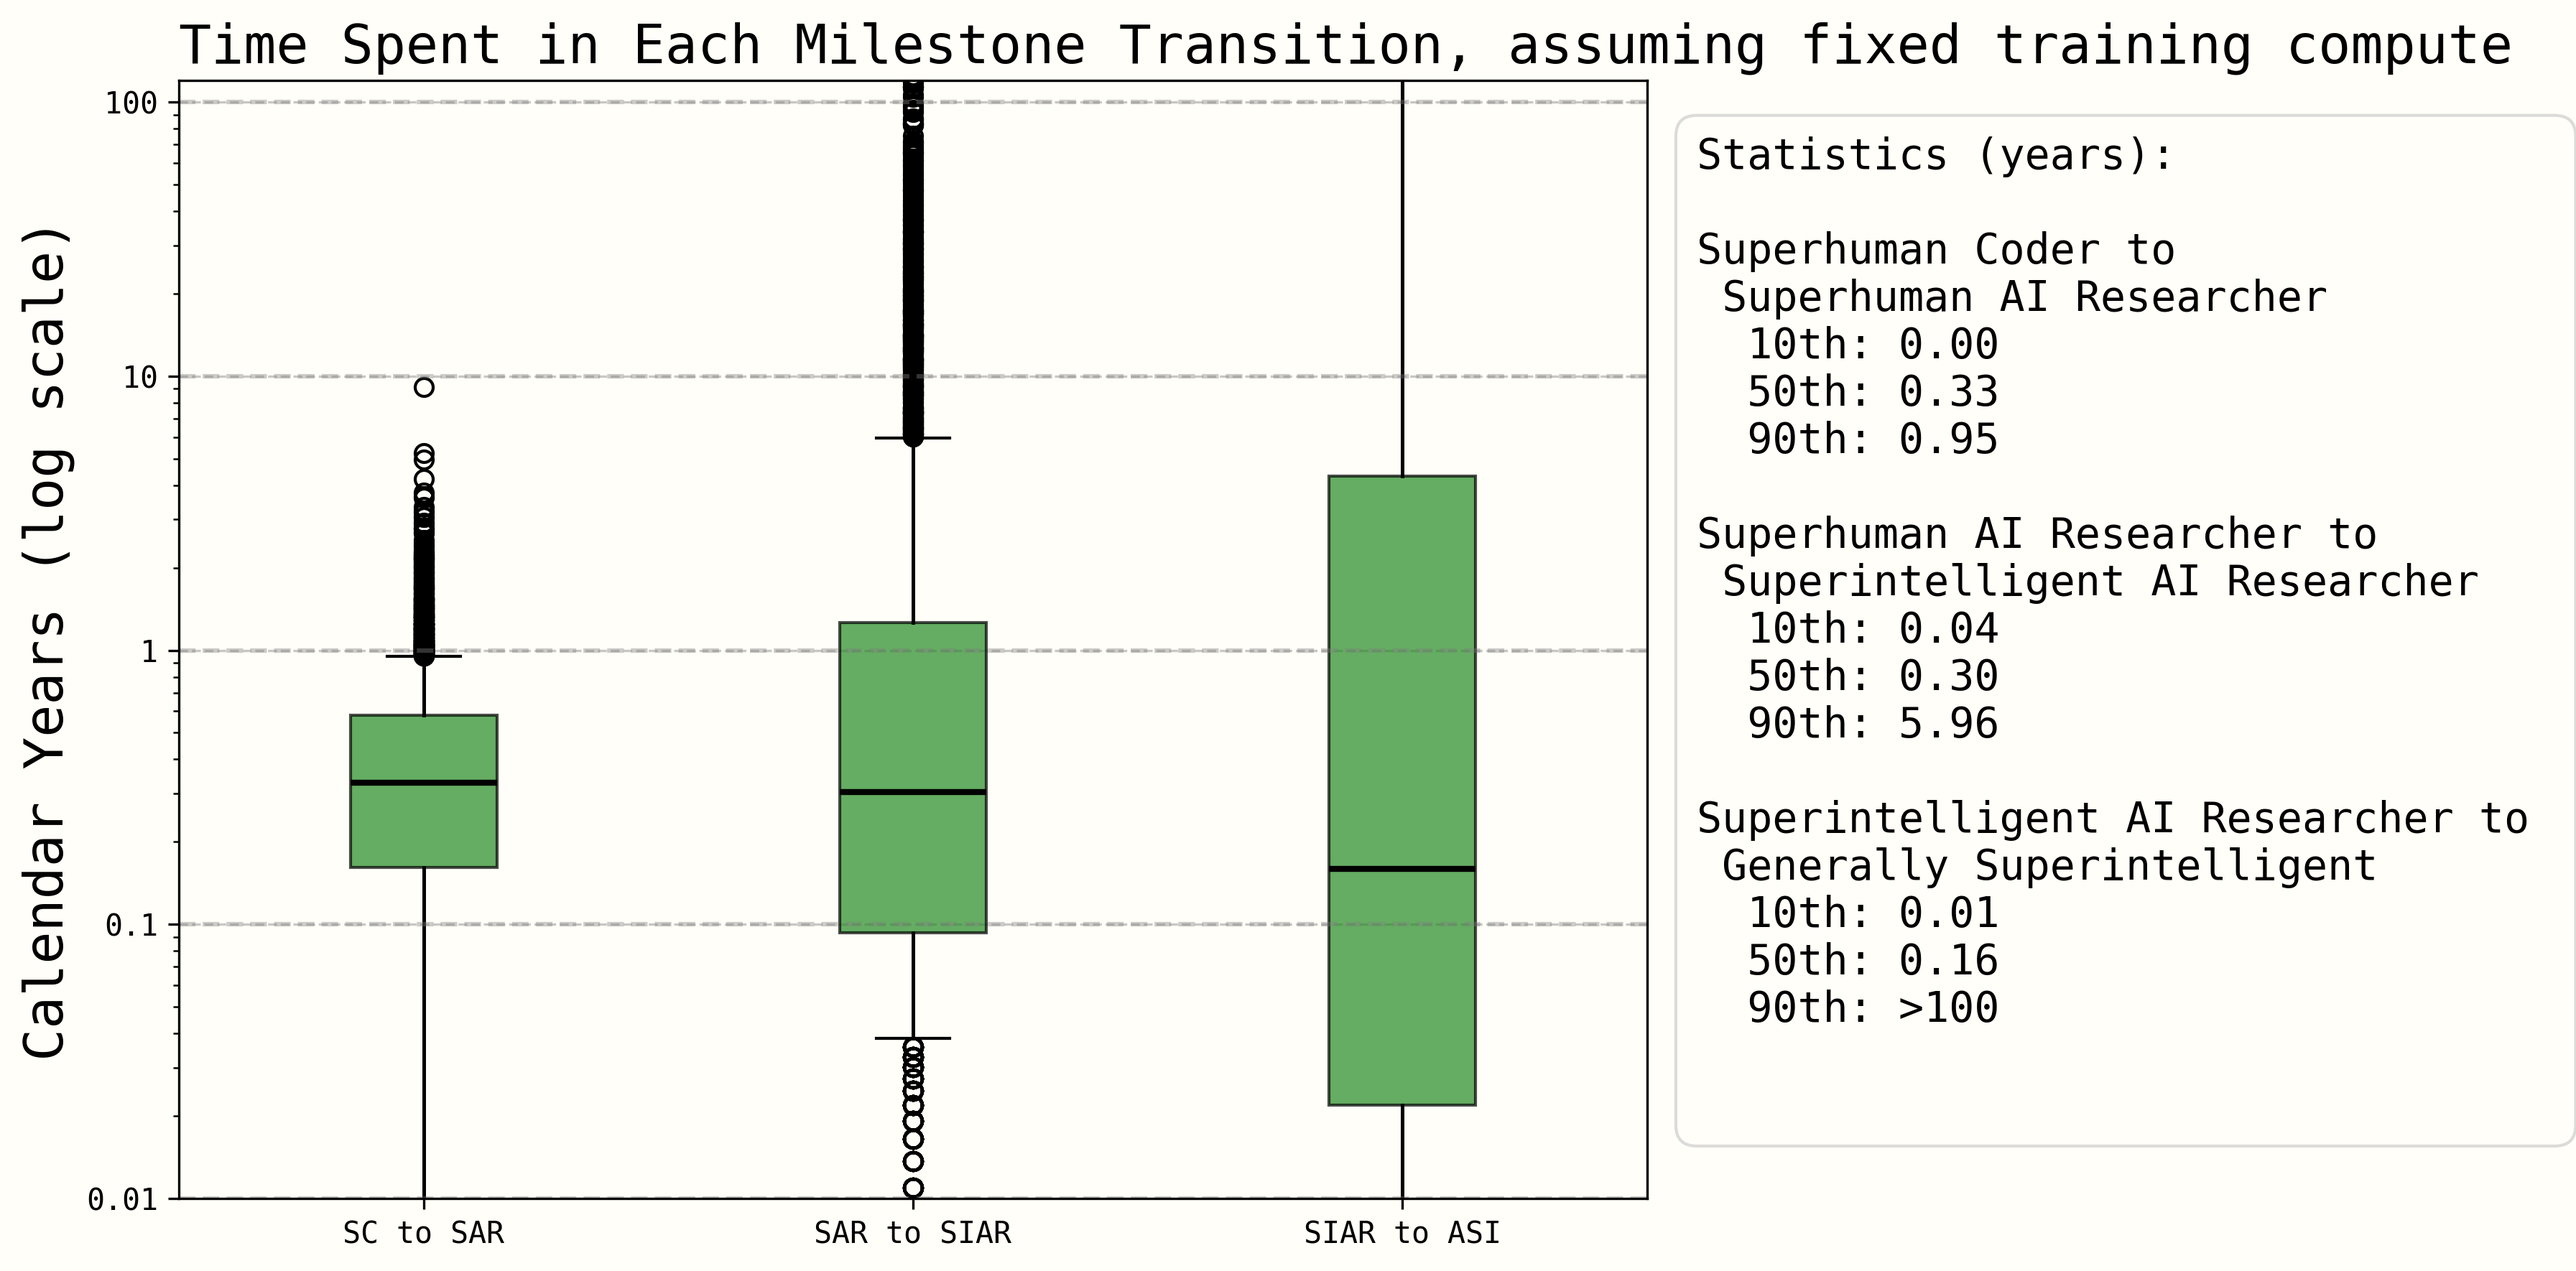
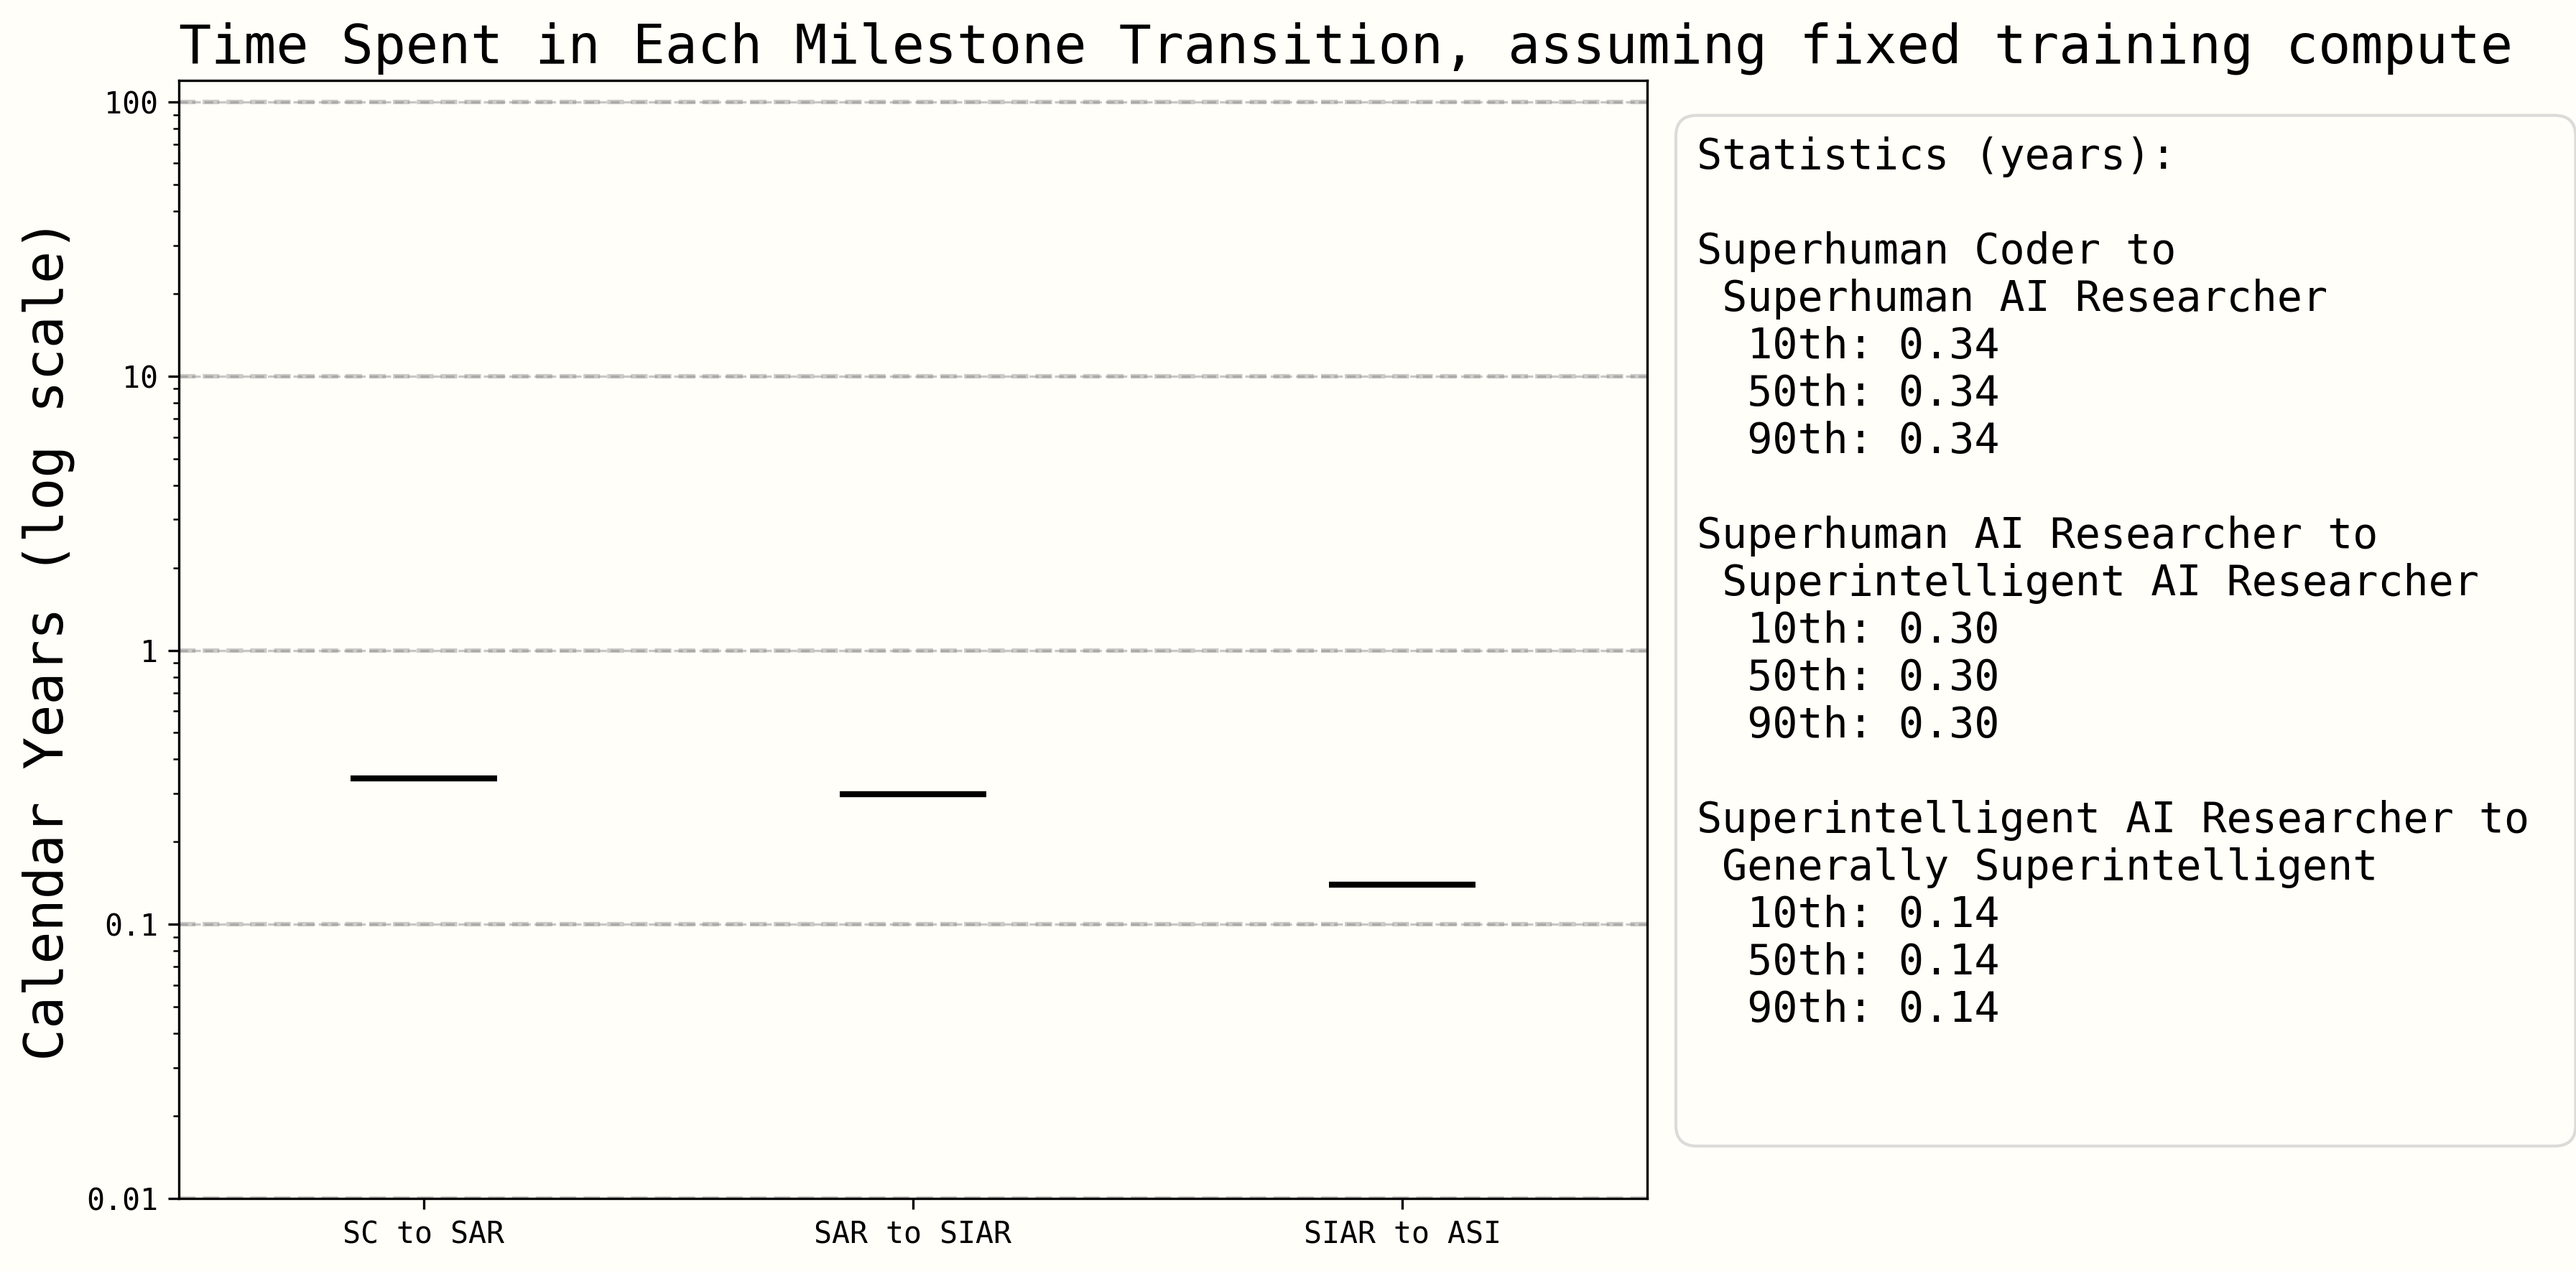
specify takeoff uncertainty in params

diff --git a/takeoff/forecasting_takeoff.py b/takeoff/forecasting_takeoff.py
@@ -30,20 +30,28 @@ def get_lognormal_from_80_ci(lower_bound, upper_bound):
     # Return the lognormal distribution
     return lognorm(s=sigma, scale=np.exp(mu))
 
-def get_milestone_samples(config: dict, n_sims: int, correlation: float = 0.7) -> dict:
+def get_milestone_samples(config: dict, n_sims: int) -> dict:
     """Generate samples for milestone timings and speeds with correlation between gap sizes."""
     samples = {}
-    
+
     # Parse starting time
     start_date = datetime.strptime(config["starting_time"], "%B %d %Y")
     samples["start_time"] = start_date
-    
+
+    # Get correlation parameters from config
+    time_gaps_correlation = config["correlations"]["time_gaps"]
+    amr_sar_sc_sar_correlation = config["correlations"]["amr_sar_sc_sar"]
+
+    # Get derived distribution bounds from config
+    amr_to_sar_bounds = config["derived_distributions"]["amr_to_sar"]
+    sar_to_siar_equiv_jumps_bounds = config["derived_distributions"]["sar_to_siar_equiv_jumps"]
+
     # Get list of time gaps to model
     milestone_pairs = list(config["times"].keys())
     n_vars = len(milestone_pairs)
-    
+
     # Create correlation matrix (all pairs have same correlation)
-    corr_matrix = np.full((n_vars, n_vars), correlation)
+    corr_matrix = np.full((n_vars, n_vars), time_gaps_correlation)
     np.fill_diagonal(corr_matrix, 1.0)
     
     # Generate correlated standard normal samples
@@ -54,7 +62,6 @@ def get_milestone_samples(config: dict, n_sims: int, correlation: float = 0.7) -
     uniform_samples = norm.cdf(normal_samples)
     
     # Generate AMR to SAR samples with correlation to SC to SAR
-    amr_sar_sc_sar_correlation = 0.8
     corr_matrix_2 = np.array([[1.0, amr_sar_sc_sar_correlation],
                              [amr_sar_sc_sar_correlation, 1.0]])
     mean_2 = np.zeros(2)
@@ -62,11 +69,11 @@ def get_milestone_samples(config: dict, n_sims: int, correlation: float = 0.7) -
     uniform_samples_corr = norm.cdf(correlated_normal_samples)
     
     # Generate AMR to SAR samples using the correlated uniforms
-    amr_to_sar_dist = get_lognormal_from_80_ci(1, 25)
+    amr_to_sar_dist = get_lognormal_from_80_ci(amr_to_sar_bounds[0], amr_to_sar_bounds[1])
     amr_to_sar_samples = amr_to_sar_dist.ppf(uniform_samples_corr[:, 0])
-    
+
     # Generate SAR to SIAR equivalent jumps samples
-    sar_to_siar_equiv_jumps_dist = get_lognormal_from_80_ci(0.3, 7.5)
+    sar_to_siar_equiv_jumps_dist = get_lognormal_from_80_ci(sar_to_siar_equiv_jumps_bounds[0], sar_to_siar_equiv_jumps_bounds[1])
     sar_to_siar_equiv_jumps_samples = sar_to_siar_equiv_jumps_dist.ppf(np.random.random(n_sims))
     
     # Generate time gap samples
@@ -298,22 +305,30 @@ def create_milestone_timeline_plot(all_milestone_dates: list[list[datetime]], co
         if not visible_data:
             print(f"Warning: No data in visible range for {milestone}")
             continue
-            
-        # Calculate KDE on visible data
-        kde = gaussian_kde(visible_data)
-        
+
         # Create x range for plotting
         x_range = np.linspace(start_year, MAX_GRAPH_YEAR, 200000)
-        density = kde(x_range)
-        
-        # Normalize density to sum to 1 over visible range
-        density = density / np.sum(density) * (len(visible_data) / len(milestone_data))
-        
-        # Plot with different colors for each milestone
         colors = ["#900000", "#004000", "#000090"]
-        ax.plot(x_range, density, '-', color=colors[i], label=milestone,
-                linewidth=2, alpha=0.8, zorder=2)
-        ax.fill_between(x_range, density, color=colors[i], alpha=0.1)
+
+        # Check if data has enough variance for KDE
+        data_std = np.std(visible_data)
+        if data_std < 0.001:
+            # Near-zero variance: plot as vertical line at mean
+            mean_val = np.mean(visible_data)
+            ax.axvline(x=mean_val, color=colors[i], label=milestone,
+                      linewidth=2, alpha=0.8, zorder=2)
+        else:
+            # Calculate KDE on visible data
+            kde = gaussian_kde(visible_data)
+            density = kde(x_range)
+
+            # Normalize density to sum to 1 over visible range
+            density = density / np.sum(density) * (len(visible_data) / len(milestone_data))
+
+            # Plot with different colors for each milestone
+            ax.plot(x_range, density, '-', color=colors[i], label=milestone,
+                    linewidth=2, alpha=0.8, zorder=2)
+            ax.fill_between(x_range, density, color=colors[i], alpha=0.1)
         milestone_full = ["Superhuman\n  AI Researcher", "Superintelligent\n  AI Researcher", "Generally\n  Superintelligent"]
         # Add statistics text using full data with month and year format
         if (p90 > 2100): 
